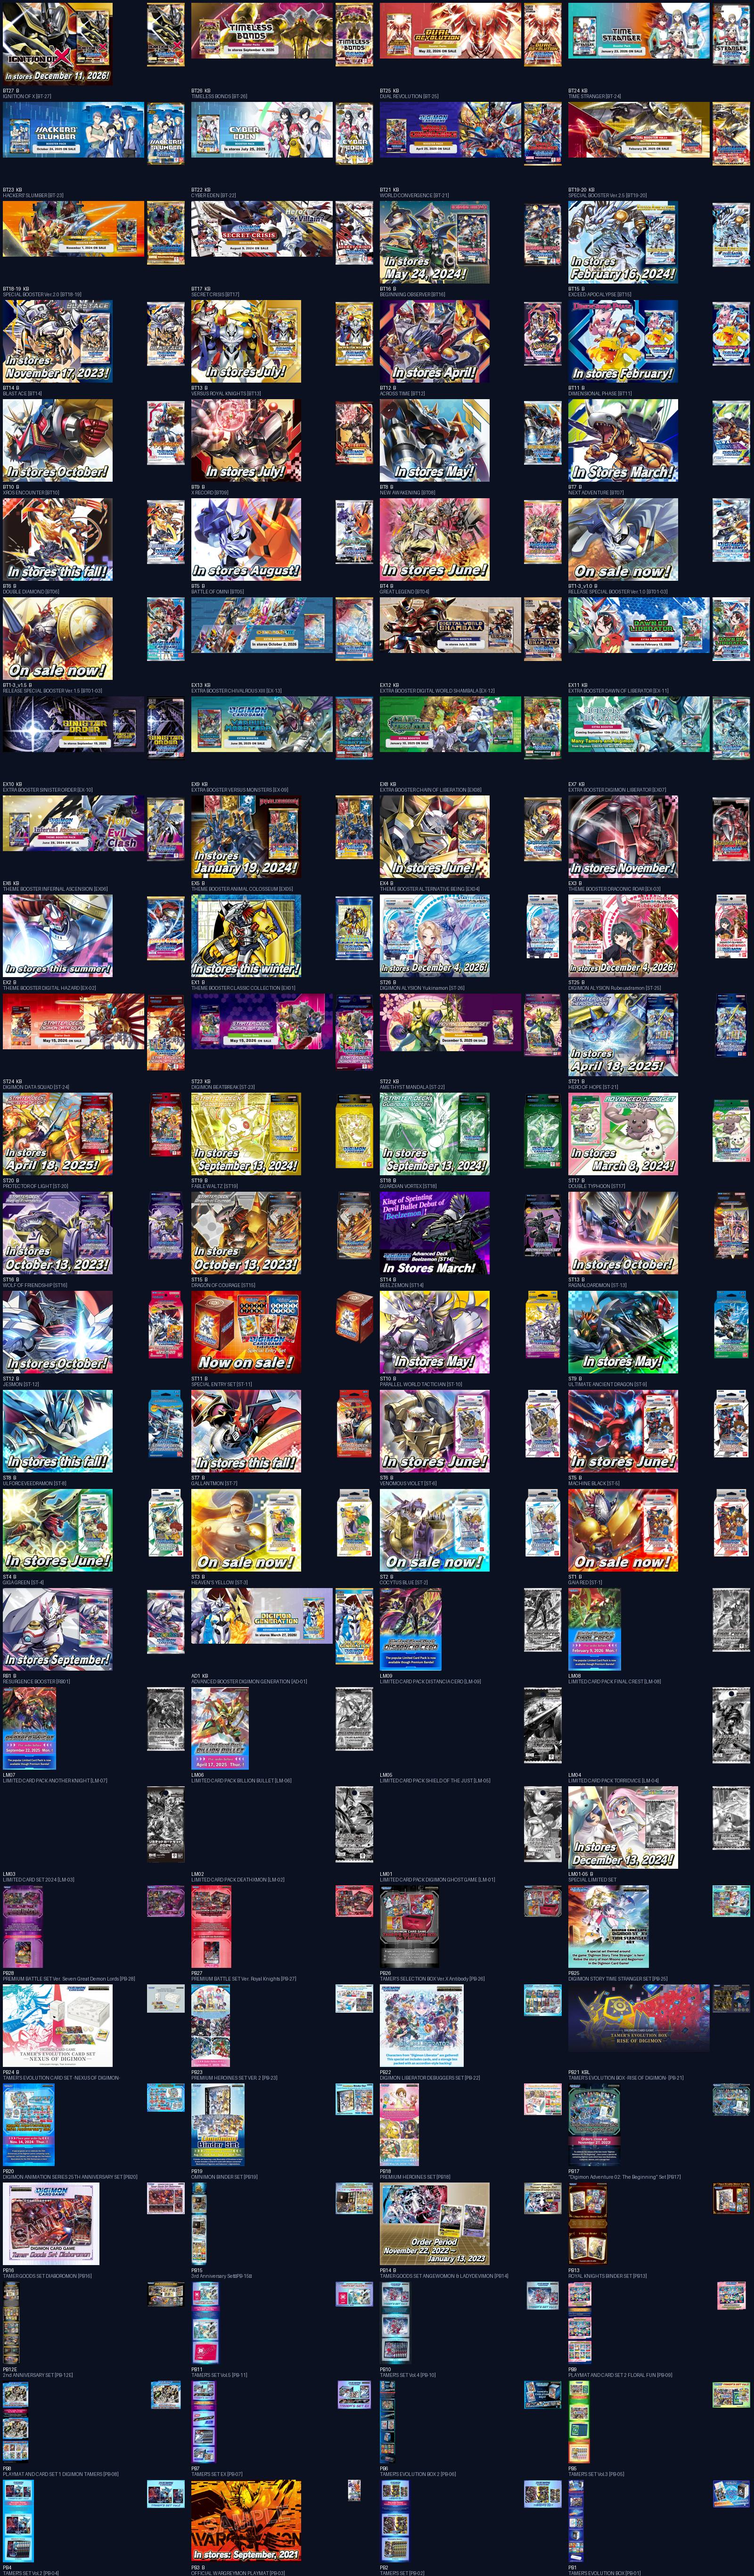
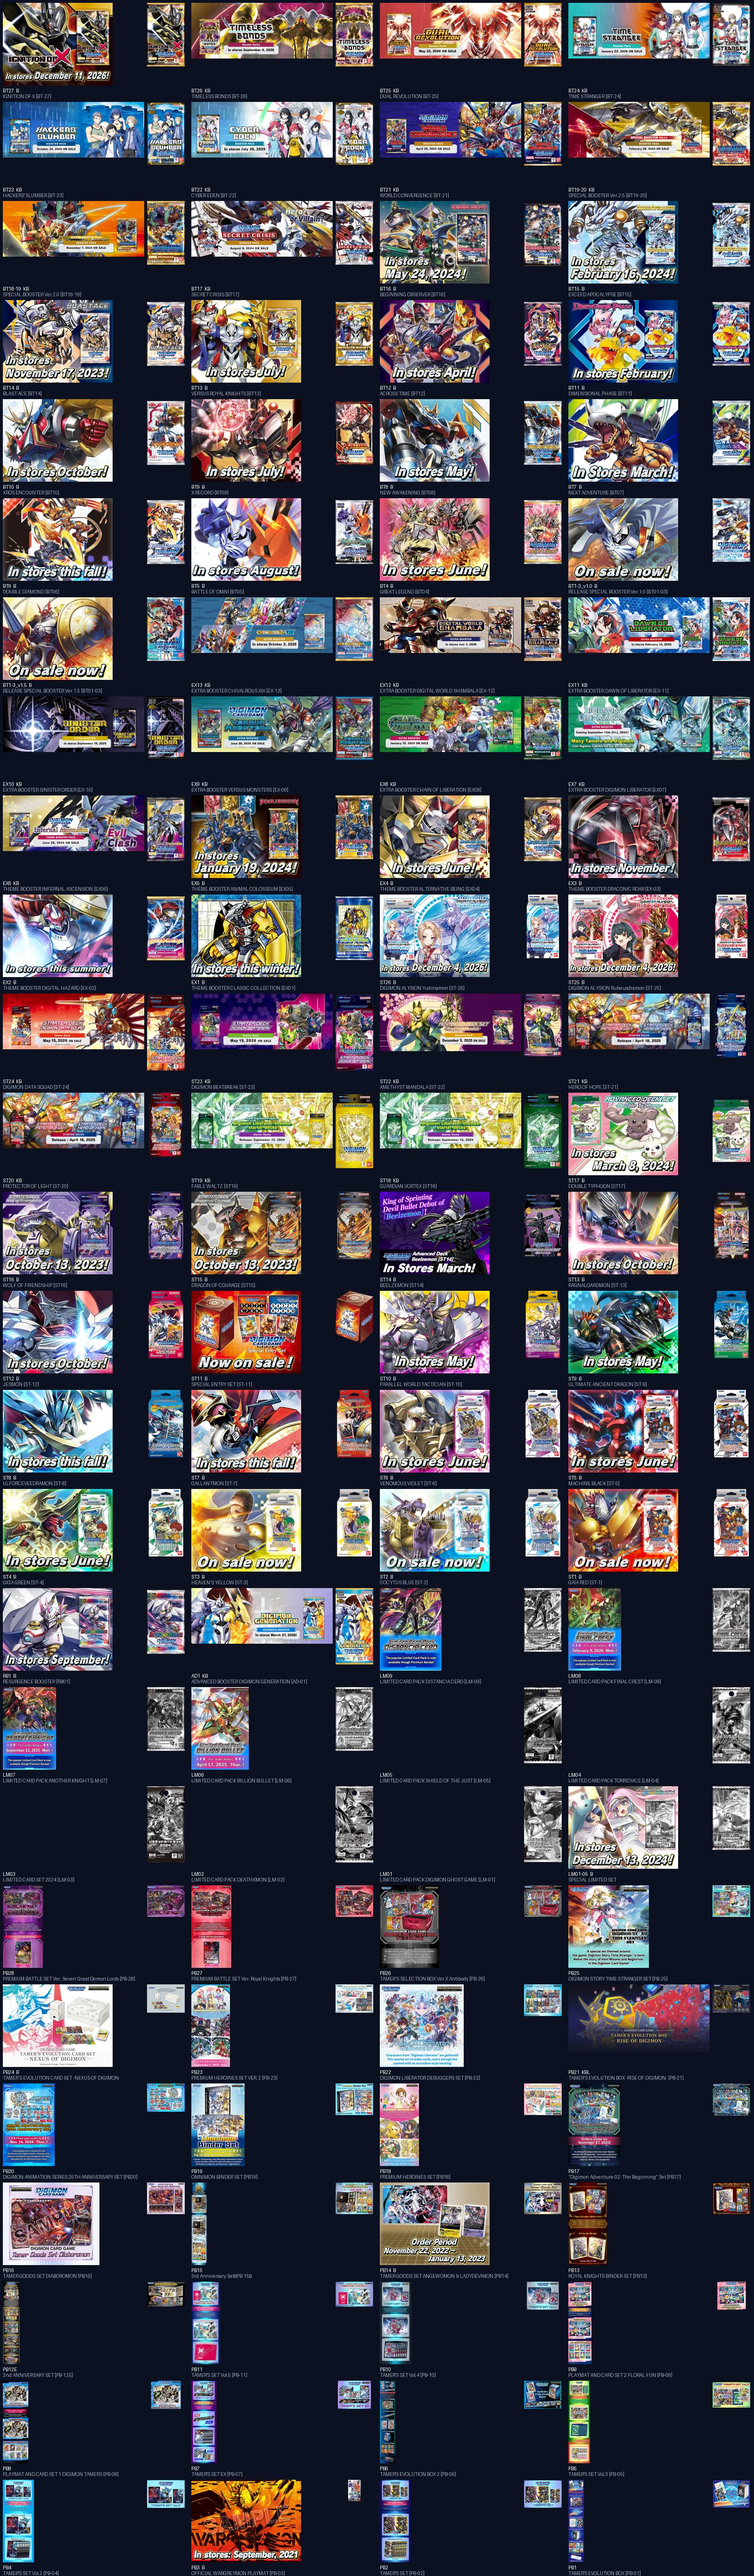
Loghi e artwork aggiornati (run 3)

diff --git a/README.md b/README.md
@@ -62,10 +62,10 @@ Il sito non pubblica quasi mai i loghi come file separati: il logo si trova nel 
 | **ST24**<br>DIGIMON DATA SQUAD [ST-24]<br>May 15, 2026<br>[keyvisual](ST24/keyvisual.jpg), [keyvisual-verticale](ST24/keyvisual-verticale.jpg), [banner](ST24/banner.jpg), [confezione](ST24/confezione.png) | <img src="ST24/keyvisual.jpg" width="320"> | <img src="ST24/confezione.png" width="70"> |
 | **ST23**<br>DIGIMON BEATBREAK [ST-23]<br>May 15, 2026<br>[keyvisual](ST23/keyvisual.jpg), [keyvisual-verticale](ST23/keyvisual-verticale.jpg), [banner](ST23/banner.jpg), [confezione](ST23/confezione.png) | <img src="ST23/keyvisual.jpg" width="320"> | <img src="ST23/confezione.png" width="70"> |
 | **ST22**<br>AMETHYST MANDALA [ST-22]<br>December 5, 2025<br>[keyvisual](ST22/keyvisual.jpg), [keyvisual-verticale](ST22/keyvisual-verticale.jpg), [banner](ST22/banner.jpg), [confezione](ST22/confezione.png) | <img src="ST22/keyvisual.jpg" width="320"> | <img src="ST22/confezione.png" width="70"> |
-| **ST21**<br>HERO OF HOPE [ST-21]<br>April 18, 2025<br>[banner](ST21/banner.jpg), [confezione](ST21/confezione.png) | <img src="ST21/banner.jpg" width="320"> | <img src="ST21/confezione.png" width="70"> |
-| **ST20**<br>PROTECTOR OF LIGHT [ST-20]<br>April 18, 2025<br>[banner](ST20/banner.jpg), [confezione](ST20/confezione.png) | <img src="ST20/banner.jpg" width="320"> | <img src="ST20/confezione.png" width="70"> |
-| **ST19**<br>FABLE WALTZ [ST19]<br>September 13, 2024<br>[banner](ST19/banner.jpg), [confezione](ST19/confezione.png) | <img src="ST19/banner.jpg" width="320"> | <img src="ST19/confezione.png" width="70"> |
-| **ST18**<br>GUARDIAN VORTEX [ST18]<br>September 13, 2024<br>[banner](ST18/banner.jpg), [confezione](ST18/confezione.png) | <img src="ST18/banner.jpg" width="320"> | <img src="ST18/confezione.png" width="70"> |
+| **ST21**<br>HERO OF HOPE [ST-21]<br>April 18, 2025<br>[keyvisual](ST21/keyvisual.jpg), [keyvisual-verticale](ST21/keyvisual-verticale.jpg), [banner](ST21/banner.jpg), [confezione](ST21/confezione.png) | <img src="ST21/keyvisual.jpg" width="320"> | <img src="ST21/confezione.png" width="70"> |
+| **ST20**<br>PROTECTOR OF LIGHT [ST-20]<br>April 18, 2025<br>[keyvisual](ST20/keyvisual.jpg), [keyvisual-verticale](ST20/keyvisual-verticale.jpg), [banner](ST20/banner.jpg), [confezione](ST20/confezione.png) | <img src="ST20/keyvisual.jpg" width="320"> | <img src="ST20/confezione.png" width="70"> |
+| **ST19**<br>FABLE WALTZ [ST19]<br>September 13, 2024<br>[keyvisual](ST19/keyvisual.jpg), [keyvisual-verticale](ST19/keyvisual-verticale.jpg), [banner](ST19/banner.jpg), [confezione](ST19/confezione.png) | <img src="ST19/keyvisual.jpg" width="320"> | <img src="ST19/confezione.png" width="70"> |
+| **ST18**<br>GUARDIAN VORTEX [ST18]<br>September 13, 2024<br>[keyvisual](ST18/keyvisual.jpg), [keyvisual-verticale](ST18/keyvisual-verticale.jpg), [banner](ST18/banner.jpg), [confezione](ST18/confezione.png) | <img src="ST18/keyvisual.jpg" width="320"> | <img src="ST18/confezione.png" width="70"> |
 | **ST17**<br>DOUBLE TYPHOON [ST17]<br>March 8, 2024<br>[banner](ST17/banner.jpg), [confezione](ST17/confezione.png) | <img src="ST17/banner.jpg" width="320"> | <img src="ST17/confezione.png" width="70"> |
 | **ST16**<br>WOLF OF FRIENDSHIP [ST16]<br>October 13, 2023<br>[banner](ST16/banner.jpg), [confezione](ST16/confezione.png) | <img src="ST16/banner.jpg" width="320"> | <img src="ST16/confezione.png" width="70"> |
 | **ST15**<br>DRAGON OF COURAGE [ST15]<br>October 13, 2023<br>[banner](ST15/banner.jpg), [confezione](ST15/confezione.png) | <img src="ST15/banner.jpg" width="320"> | <img src="ST15/confezione.png" width="70"> |
